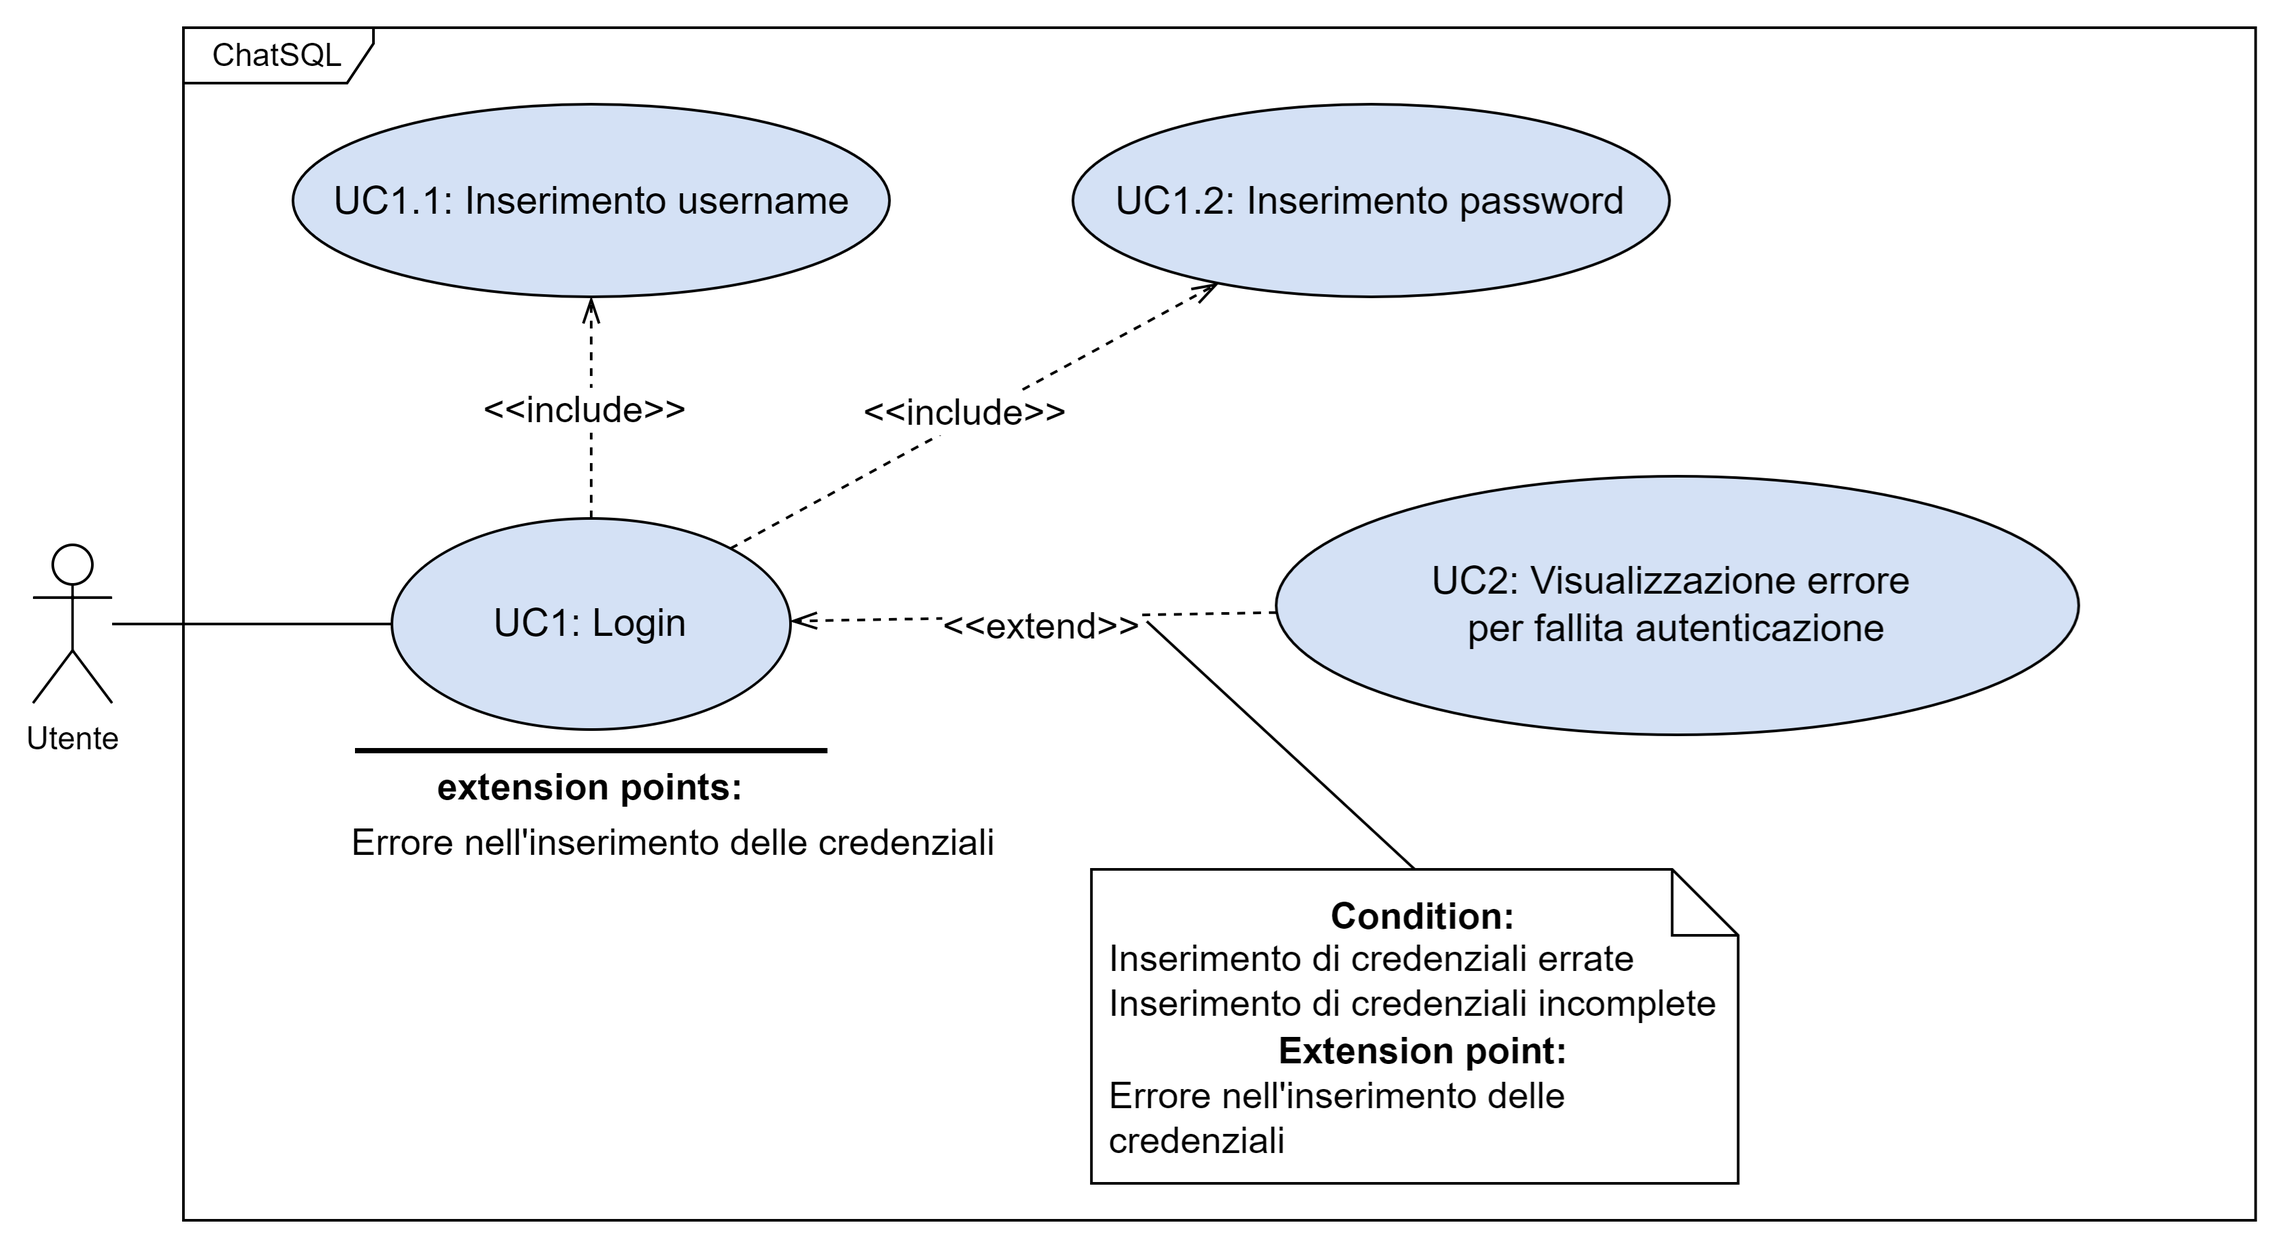
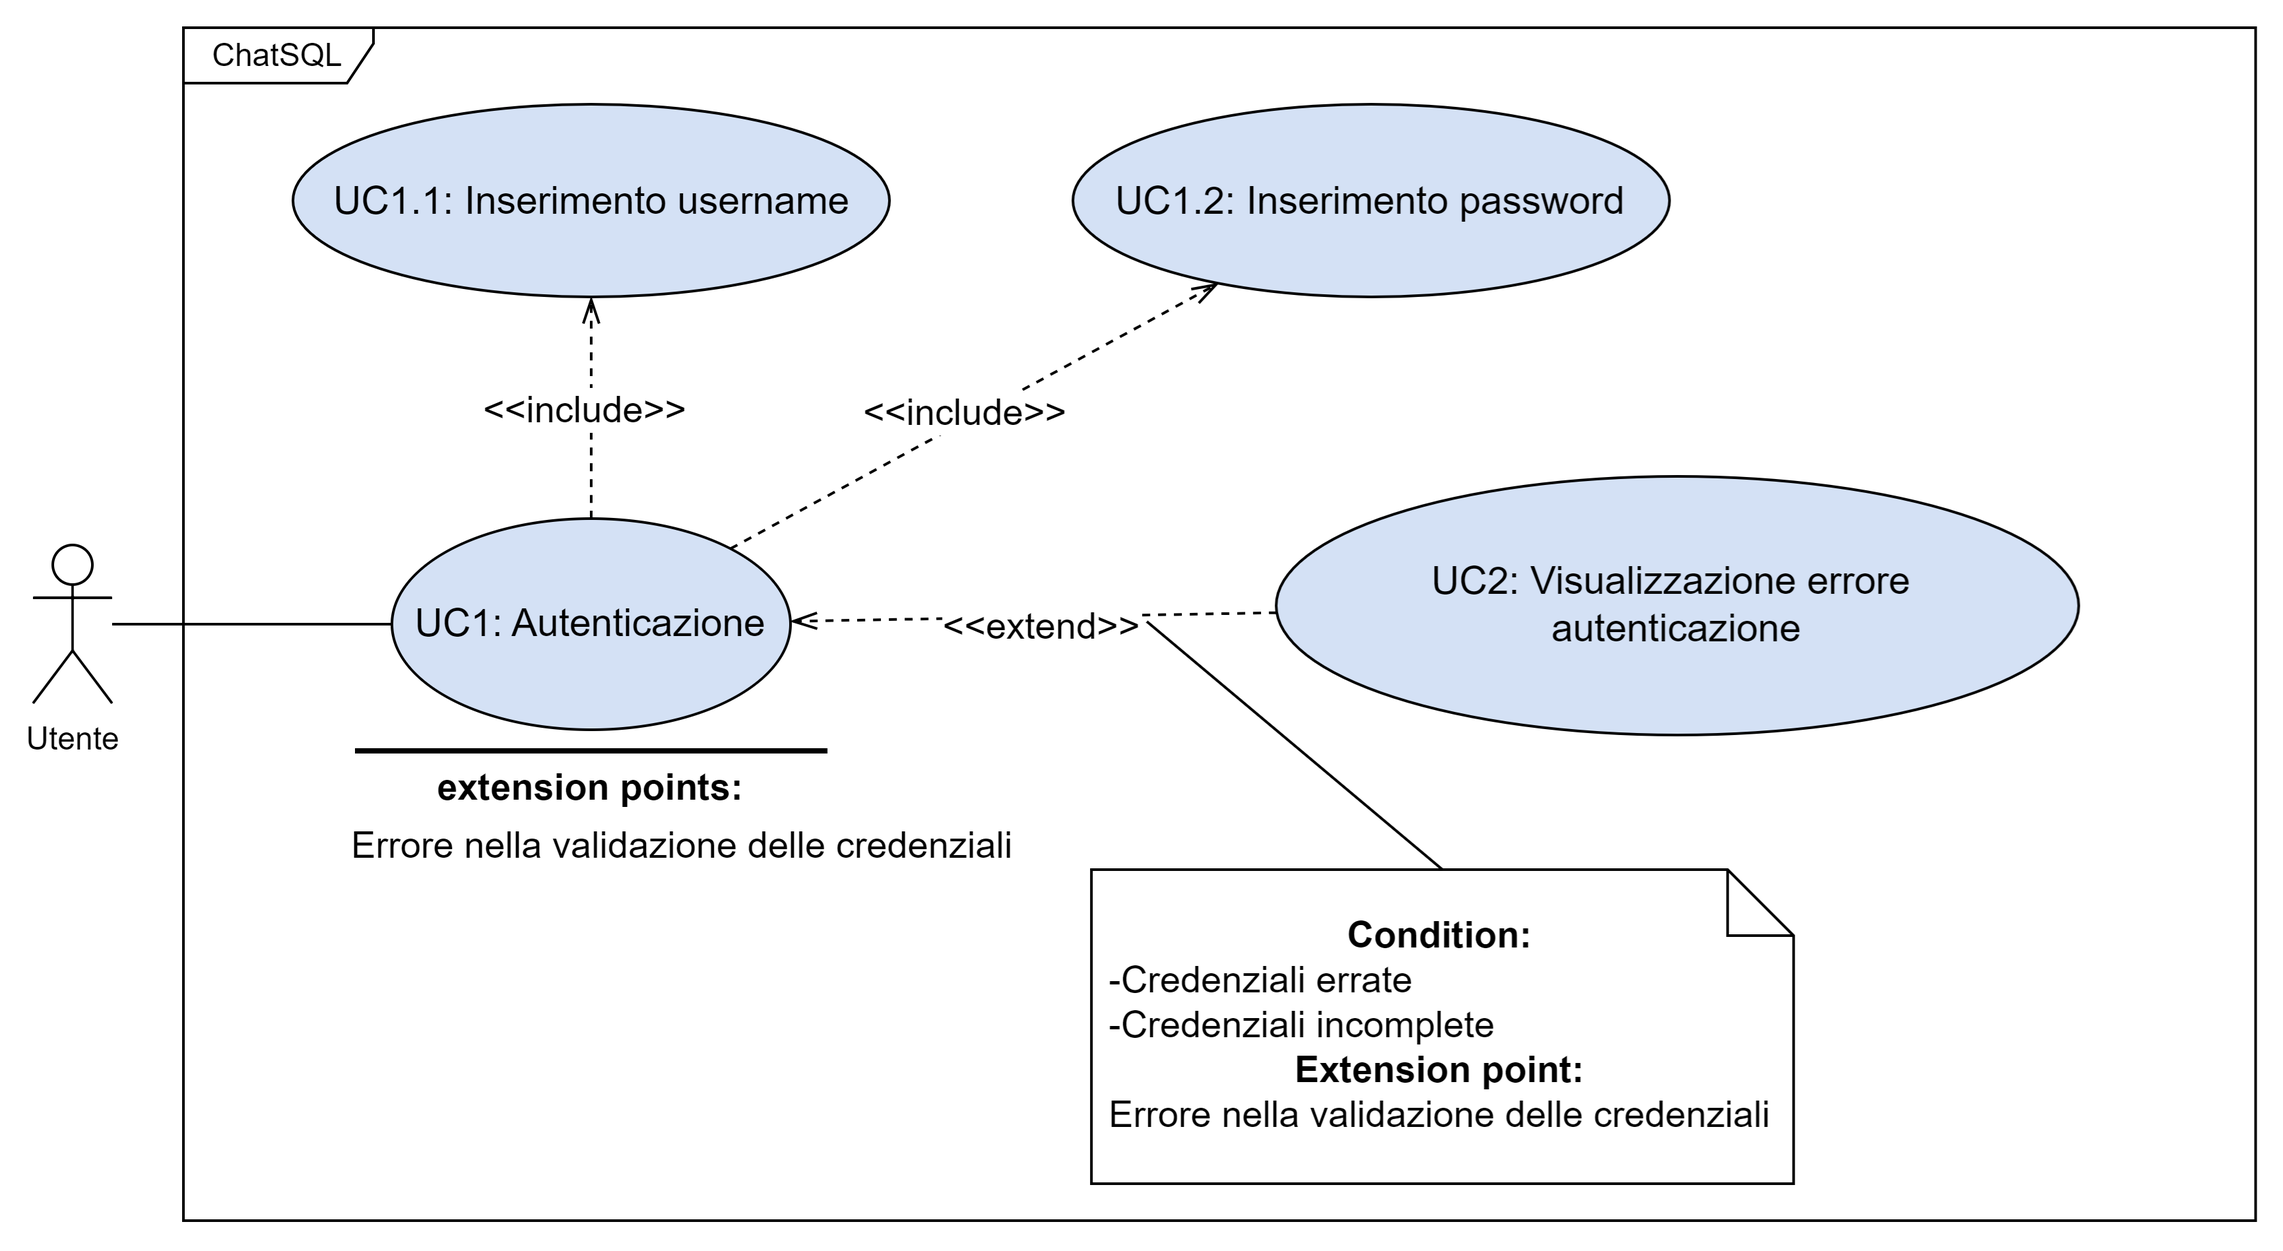
revisione generale struttura use case

diff --git a/sources/documents/2_RTB/AnalisiDeiRequisiti/usecase/uc5.tex b/sources/documents/2_RTB/AnalisiDeiRequisiti/usecase/uc5.tex
@@ -1,4 +1,4 @@
-\subsubsection{UC5 - Generazione \glossario{prompt}}\label{UC5}
+\subsubsection{UC5 - Generazione prompt}\label{UC5}
 
 \begin{figure}[H]
   \centering
@@ -7,7 +7,7 @@
 \end{figure}
 
 \paragraph*{Descrizione}
-Il sistema genera un \glossario{prompt} a partire da una richiesta dell'Utente in linguaggio naturale, cercando delle corrispondenze con il \glossario{dizionario dati} selezionato.
+Il sistema genera un \glossario{prompt} a partire da una richiesta dell'Utente. Per comporre il \glossario{prompt}, il sistema cerca delle corrispondenze tra la richiesta e il \glossario{dizionario dati} selezionato. Il prompt generato può essere usato in combinazione con un modello di \glossario{AI} esterno per costruire \glossario{query} SQL.
 
 \paragraph*{Attori principali}
 Utente
@@ -15,24 +15,27 @@ Utente
 \paragraph*{Precondizioni}
 \begin{itemize}
   \item L'applicazione è stata avviata con successo;
-  \item È presente almeno un \glossario{dizionario dati} nel sistema.
-  \item L'indice vettoriale (per la ricerca semantica) è stato creato a partire dal \glossario{dizionario dati}.
+  \item È presente almeno un \glossario{dizionario dati} nel sistema;
+  \item È stato creato almeno un \glossario{indice vettoriale} per la ricerca semantica.
 \end{itemize}
 
 \paragraph*{Postcondizioni}
 \begin{itemize}
-  \item Il sistema ritorna con successo il \glossario{prompt} corrispondente alla richiesta dell'Utente. Il prompt contiene i \glossario{metadati} estratti dal \glossario{dizionario dati} scelto.
+  \item Il sistema ritorna con successo il \glossario{prompt} generato. Il prompt contiene i \glossario{metadati} estratti dal \glossario{dizionario dati}.
 \end{itemize}
 
 \paragraph*{Trigger}
-L'Utente desidera ricevere un \glossario{prompt} da fornire in input a un modello di AI esterno al fine di ottenere una \glossario{query} SQL.
+L'Utente desidera ricevere un \glossario{prompt} in risposta alla sua richiesta.
 
 \paragraph*{Scenario principale}
 \begin{enumerate}
-  \item L'Utente seleziona un \glossario{dizionario dati}(\hyperref[UC4]{UC4}), un \glossario{DBMS} (\hyperref[UC26]{UC26}) e una lingua per la richiesta (\hyperref[UC7]{UC7});
-  \item L'Utente inserisce un'interrogazione in linguaggio naturale (\hyperref[UC3]{UC3});
-  \item Se l'Utente che ha effettuato la richiesta è un Tecnico, il sistema genera automaticamente un file di \glossario{log} che documenta il processo di generazione del \glossario{prompt};
-  \item Viene avviato il processo di generazione del \glossario{prompt} e di raccolta dei \glossario{metadati} dal \glossario{dizionario dati};
+  \item L'Utente seleziona un \glossario{dizionario dati}(\hyperref[UC4]{UC4});
+  \item L'Utene seleziona un \glossario{DBMS} (\hyperref[UC26]{UC26});
+  \item L'Utente seleziona una lingua (\hyperref[UC7]{UC7});
+  \item L'Utente inserisce una richiesta in linguaggio naturale (\hyperref[UC3]{UC3});
+  \item L'Utente richiede la generazione del \glossario{prompt};
+  \item Se l'Utente che ha effettuato la richiesta è un Tecnico, il sistema genera un file di \glossario{log} che documenta il processo di generazione del \glossario{prompt};
+  \item Viene avviato il processo di generazione del \glossario{prompt};
   \item Il sistema restituisce il \glossario{prompt} generato.
 \end{enumerate}
 
@@ -46,9 +49,9 @@ L'Utente desidera ricevere un \glossario{prompt} da fornire in input a un modell
 
 \paragraph*{Estensioni}
 \begin{itemize}
-  \item Visualizzazione avviso richiesta non idonea (\hyperref[UC28]{UC28}).
+  \item Visualizzazione avviso richiesta non idonea (\hyperref[UC6]{UC6}).
   \begin{itemize}
-    \item Extension point: richiesta non idonea per il modello di AI o per il \glossario{dizionario dati} scelto.
+    \item Extension point: richiesta non idonea per il modello di \glossario{AI} o per il \glossario{dizionario dati} scelto.
   \end{itemize}
   \item Visualizzazione errore generazione del \glossario{prompt} (\hyperref[UC11]{UC11}).
     \begin{itemize}

diff --git a/sources/documents/2_RTB/AnalisiDeiRequisiti/usecase/uc2.tex b/sources/documents/2_RTB/AnalisiDeiRequisiti/usecase/uc2.tex
@@ -7,7 +7,7 @@
 \end{figure}
 
 \paragraph*{Descrizione}
-Nel caso in cui il sistema rilevi delle irregolarità durante la validazione delle credenziali utilizzate per il login, l'Utente viene informato della natura del problema tramite un apposito messaggio di errore.
+Nel caso in cui il sistema rilevi delle irregolarità durante la validazione delle credenziali, l'Utente viene informato della natura del problema tramite un apposito messaggio di errore.
 
 \paragraph*{Attori principali}
 Utente
@@ -21,69 +21,19 @@ Utente
 
 \paragraph*{Postcondizioni}
 \begin{itemize}
-  \item Il sistema notifica l'utente della mancata autenticazione mediante un messaggio di errore e lo invita a riprovare.
+  \item Viene visualizzato un messaggio d'errore esplicativo.
 \end{itemize}
 
 \paragraph*{Scenario principale}
 \begin{enumerate}
   \item L'Utente tenta di autenticarsi inserendo le proprie credenziali nell'area di login;
   \item Il sistema riscontra un problema nella validazione delle credenziali di accesso;
-  \item Viene restituito all'Utente un messaggio di errore relativo alla problematica riscontrata;
+  \item Viene restituito all'Utente un messaggio di errore;
   \item Il sistema invita l'Utente a riprovare l'autenticazione.
 \end{enumerate}
 
-\paragraph*{Generalizzazioni}
+\paragraph*{Specializzazioni}
 \begin{itemize}
-  \item Errore credenziali incomplete (\hyperref[UC2point1]{UC2.1});
-  \item Errore credenziali errate (\hyperref[UC2point2]{UC2.2});
+  \item Credenziali incomplete (\hyperref[UC37]{UC37});
+  \item Credenziali errate (\hyperref[UC38]{UC38}).
 \end{itemize}
-
-%%%%%%%%%%%%%%%%%%%%%%%%%%%%%%%%%%%%%%%%%%%%%%%%%%%%%%%%%%%%%%%%%%%%%%%%%%%%%%
-
-\subsubsection{UC2.1 - Errore credenziali incomplete}\label{UC2point1}
-\paragraph*{Descrizione}
-Il sistema restituisce un apposito messaggio di errore nel caso in cui l'Utente provi a inserire delle credenziali incomplete in fase di autenticazione.
-
-\paragraph*{Attori principali}
-Utente
-
-\paragraph*{Precondizioni}
-\begin{itemize}
-  \item L'Utente ha tentato di autenticarsi inserendo credenziali incomplete.  
-\end{itemize}
-
-\paragraph*{Postcondizioni}
-\begin{itemize}
-  \item Viene restituito correttamente un messaggio di errore per notificare l'Utente dell'inserimento incompleto dei dati nell'area di login.
-\end{itemize}
-
-\paragraph*{Scenario principale}
-\begin{enumerate}
-  \item L'Utente richiede l'autenticazione inserendo delle credenziali incomplete;
-  \item L'Utente visualizza il messaggio di errore relativo al mancato inserimento dei dati di accesso.   
-\end{enumerate}
-
-%%%%%%%%%%%%%%%%%%%%%%%%%%%%%%%%%%%%%%%%%%%%%%%%%%%%%%%%%%%%%%%%%%%%%%%%%%%%%%
-
-\subsubsection{UC2.2 - Errore credenziali errate}\label{UC2point2}
-\paragraph*{Descrizione}
-Il sistema restituisce un apposito messaggio di errore nel caso in cui l'Utente provi a inserire delle credenziali errate in fase di autenticazione.
-
-\paragraph*{Attori principali}
-Utente
-
-\paragraph*{Precondizioni}
-\begin{itemize}
-  \item L'Utente ha tentato di autenticarsi inserendo credenziali errate.  
-\end{itemize}
-
-\paragraph*{Postcondizioni}
-\begin{itemize}
-  \item Viene restituito correttamente un messaggio di errore per notificare l'Utente che le credenziali inserite non sono corrette.
-\end{itemize}
-
-\paragraph*{Scenario principale}
-\begin{enumerate}
-  \item L'Utente richiede l'autenticazione inserendo delle credenziali errate;   
-  \item L'Utente visualizza il messaggio di errore relativo all'errato inserimento dei dati di accesso.   
-\end{enumerate}

diff --git a/sources/documents/2_RTB/AnalisiDeiRequisiti/usecase/uc1.tex b/sources/documents/2_RTB/AnalisiDeiRequisiti/usecase/uc1.tex
@@ -21,7 +21,7 @@ Utente
 \paragraph*{Postcondizioni}
 \begin{itemize}
   \item La procedura di autenticazione si è conclusa con successo;
-  \item L'Utente acquisisce il ruolo di Tecnico;
+  \item L'Utente acquisisce il ruolo di tecnico;
   \item Il Tecnico visualizza le funzionalità aggiuntive nell'interfaccia.  
 \end{itemize}
 
@@ -31,8 +31,9 @@ L'Utente desidera accedere all'area riservata al Tecnico.
 \paragraph*{Scenario principale}
 \begin{itemize}
   \item L'Utente seleziona l'opzione "Login";
-  \item L'Utente inserisce le proprie credenziali di accesso;
-  \item L'utente accede alla schermata propria del Tecnico.
+  \item L'Utente inserisce le proprie credenziali;
+  \item L'Utente richiede l'accesso;
+  \item Il sistema mostra le funzionalità disponibili per il Tecnico.
 \end{itemize}
 
 \paragraph*{Scenario alternativo}
@@ -44,8 +45,13 @@ L'Utente desidera accedere all'area riservata al Tecnico.
 \paragraph*{Estensioni}
 \begin{itemize}
   \item Visualizzazione errore autenticazione (\hyperref[UC2]{UC2}).
+  \begin{itemize}
+    \item Extension point: Errore nella validazione delle credenziali;
+    \item Condition: Credenziali errate, credenziali incomplete.
+  \end{itemize}
 \end{itemize}
 
+% al posto dell'inclusione forse basta il sottocaso d'uso
 \paragraph*{Inclusioni}
 \begin{itemize}
   \item Inserimento username (\hyperref[UC1point1]{UC1.1});
@@ -70,11 +76,11 @@ Utente
 
 \paragraph*{Postcondizioni}
 \begin{itemize}
-  \item Lo username è stato correttamente inserito nel campo apposito.
+  \item Il nome utente è stato inserito nel campo apposito.
 \end{itemize}
 
 \paragraph*{Trigger}
-L'Utente vuole inserire il proprio username per accedere alla sezione del Tecnico.
+L'Utente desidera inserire il proprio username per accedere alle funzionalità del tecnico.
 
 \paragraph*{Scenario principale}
 \begin{enumerate}
@@ -98,13 +104,13 @@ Utente
 
 \paragraph*{Postcondizioni}
 \begin{itemize}
-  \item La password è stata correttamente inserita nel campo apposito.
+  \item La password è stata inserita nel campo apposito.
 \end{itemize}
 
 \paragraph*{Trigger}
-L'Utente vuole inserire la propria password per accedere alla sezione del Tecnico.
+L'Utente vuole inserire la propria password per accedere alle funzionalità del tecnico.
 
 \paragraph*{Scenario principale}
 \begin{enumerate}
-  \item L'utente inserisce la propria password come parte del processo di autenticazione.
+  \item L'Utente inserisce la propria password come parte del processo di autenticazione.
 \end{enumerate}

diff --git a/sources/documents/2_RTB/AnalisiDeiRequisiti/usecase/uc6.tex b/sources/documents/2_RTB/AnalisiDeiRequisiti/usecase/uc6.tex
@@ -1,6 +1,6 @@
 \subsubsection{UC6 - Visualizzazione avviso richiesta non idonea}\label{UC6}
 \paragraph*{Descrizione}
-Nel caso in cui l'Utente formuli una richiesta non idonea, o comunque una frase che non trova corrispondenze con il \glossario{dizionario dati}, il sistema restituisce un messaggio notificando l'Utente della mancata generazione del \glossario{prompt}.
+Nel caso in cui l'Utente formuli una richiesta non idonea, o comunque una richiesta che non trova corrispondenze con il \glossario{dizionario dati}, il sistema restituisce un avviso opportuno.
 
 \paragraph*{Attori principali}
 Utente
@@ -14,14 +14,14 @@ Utente
 
 \paragraph*{Postcondizioni}
 \begin{itemize}
-  \item Viene visualizzato correttamente il messaggio del ChatBOT, che avvisa l'Utente della mancata generazione del \glossario{prompt}.
+  \item Viene visualizzato l'avviso del ChatBOT, che informa l'Utente della sua incapacità di fornire una risposta adeguata alla domanda.
 \end{itemize}
 
 \paragraph*{Scenario principale}
 \begin{enumerate}
   \item Il sistema è attivo e funzionante;
   \item L'Utente richiede la generazione del \glossario{prompt} (\hyperref[UC5]{UC5});
-  \item Il sistema non trova correlazioni tra la richiesta dell'Utente e il \glossario{dizionario dati};
-  \item Il sistema non è in grado restituire un \glossario{prompt} adeguato alla richiesta dell'Utente;
-  \item Viene visualizzato un messaggio che informa l'Utente dell'esito negativo della ricerca semantica e lo invita a riprovare.
+  \item Il sistema non trova correlazioni tra la richiesta e il \glossario{dizionario dati};
+  \item Il sistema non è in grado restituire un \glossario{prompt};
+  \item Viene visualizzato un messaggio esplicativo che invita l'Utente a riprovare.
 \end{enumerate}

diff --git a/sources/documents/2_RTB/AnalisiDeiRequisiti/usecase/uc4.tex b/sources/documents/2_RTB/AnalisiDeiRequisiti/usecase/uc4.tex
@@ -1,4 +1,4 @@
-\subsubsection{UC4 - Selezione \glossario{dizionario dati}}\label{UC4}
+\subsubsection{UC4 - Selezione dizionario dati}\label{UC4}
 
 \begin{figure}[H]
   \centering
@@ -15,20 +15,20 @@ Utente
 \paragraph*{Precondizioni}
 \begin{itemize}
   \item L'applicazione è stata avviata con successo;
-  \item Nel sistema è stato caricato almeno un \glossario{dizionario dati} (\hyperref[UC13]{UC13}).
+  \item Nel sistema è stato inserito almeno un \glossario{dizionario dati} (\hyperref[UC13]{UC13}).
 \end{itemize}
 
 \paragraph*{Postcondizioni}
 \begin{itemize}
-  \item Il \glossario{dizionario dati} è stato selezionato in modo corretto ed è ora attivo nel sistema.
+  \item Il \glossario{dizionario dati} è stato selezionato in modo corretto;
+  \item Il \glossario{dizionario dati} è ora attivo nel sistema.
 \end{itemize}
 
 \paragraph*{Trigger}
-L'Utente vuole selezionare il \glossario{dizionario dati} da utilizzare nell'applicazione.
+L'Utente vuole selezionare un \glossario{dizionario dati} da utilizzare nell'applicazione.
 
 \paragraph*{Scenario principale}
 \begin{enumerate}
-  \item L'Utente visualizza i dizionari presenti nel sistema (\hyperref[UC10]{UC10});
   \item L'Utente sceglie un \glossario{dizionario dati} tra quelli disponibili.
 \end{enumerate}
 

diff --git a/sources/documents/2_RTB/AnalisiDeiRequisiti/usecase/uc3.tex b/sources/documents/2_RTB/AnalisiDeiRequisiti/usecase/uc3.tex
@@ -7,7 +7,7 @@
 \end{figure}
 
 \paragraph*{Descrizione}
-L'inserimento della richiesta in linguaggio naturale corrisponde alla digitazione, nell'apposito campo di testo, del messaggio da inviare al ChatBOT.
+L'Utente digita un messaggio da inviare al ChatBOT.
 
 \paragraph*{Attori principali}
 Utente
@@ -20,13 +20,13 @@ Utente
 
 \paragraph*{Postcondizioni}
 \begin{itemize}
-  \item L'Utente ha scritto nell'apposito campo di testo un messaggio da inviare al ChatBOT.
+  \item L'Utente ha scritto un messaggio nell'apposito campo di testo.
 \end{itemize}
 
 \paragraph*{Trigger}
-L'Utente desidera inserire una richiesta in linguaggio naturale.
+L'Utente desidera inserire una richiesta da inviare al ChatBOT.
 
 \paragraph*{Scenario principale}
 \begin{enumerate}
-  \item L'Utente scrive una richiesta nell'apposita sezione della chat.
+  \item L'Utente digita una richiesta in linguaggio naturale.
 \end{enumerate}

diff --git a/sources/documents/2_RTB/AnalisiDeiRequisiti/usecase/uc38.tex b/sources/documents/2_RTB/AnalisiDeiRequisiti/usecase/uc38.tex
@@ -1,0 +1,25 @@
+\subsubsection{UC38 - Credenziali errate}\label{UC38}
+\paragraph*{Descrizione}
+Il sistema restituisce un messaggio di errore qualora l'Utente inserisca delle credenziali non valide in fase di autenticazione.
+
+\paragraph*{Attori principali}
+Utente
+
+\paragraph*{Precondizioni}
+\begin{itemize}
+  \item L'Utente ha inserito credenziali errate;
+  \item L'Utente ha richiesto l'autenticazione. 
+\end{itemize}
+
+\paragraph*{Postcondizioni}
+\begin{itemize}
+  \item Viene visualizzato un messaggio di errore esplicativo.
+\end{itemize}
+
+\paragraph*{Scenario principale}
+\begin{enumerate}
+  \item L'Utente richiede l'autenticazione inserendo credenziali errate; 
+  \item Il sistema non riconosce le credenziali fornite;  
+  \item La procedura di autenticazione fallisce;
+  \item L'Utente visualizza un messaggio con i dettagli dell'errore.
+\end{enumerate}

diff --git a/sources/documents/2_RTB/AnalisiDeiRequisiti/usecase/uc37.tex b/sources/documents/2_RTB/AnalisiDeiRequisiti/usecase/uc37.tex
@@ -1,0 +1,24 @@
+\subsubsection{UC37 - Credenziali incomplete}\label{UC37}
+\paragraph*{Descrizione}
+Il sistema restituisce un messaggio di errore qualora l'Utente inserisca delle credenziali incomplete in fase di autenticazione.
+
+\paragraph*{Attori principali}
+Utente
+
+\paragraph*{Precondizioni}
+\begin{itemize}
+  \item L'Utente ha inserito credenziali incomplete;
+  \item L'Utente ha richiesto l'autenticazione. 
+\end{itemize}
+
+\paragraph*{Postcondizioni}
+\begin{itemize}
+  \item Viene visualizzato un messaggio di errore esplicativo.
+\end{itemize}
+
+\paragraph*{Scenario principale}
+\begin{enumerate}
+  \item L'Utente richiede l'autenticazione inserendo credenziali incomplete;
+  \item La procedura di autenticazione fallisce;
+  \item L'Utente visualizza un messaggio con i dettagli dell'errore.
+\end{enumerate}

diff --git a/sources/documents/2_RTB/AnalisiDeiRequisiti/usecase/uc13.tex b/sources/documents/2_RTB/AnalisiDeiRequisiti/usecase/uc13.tex
@@ -1,4 +1,4 @@
-\subsubsection{UC13 - Salvataggio del dizionario dati nel sistema}\label{UC13}
+\subsubsection{UC13 - Inserimento del dizionario dati nel sistema}\label{UC13}
 
 \begin{figure}[H]
   \centering
